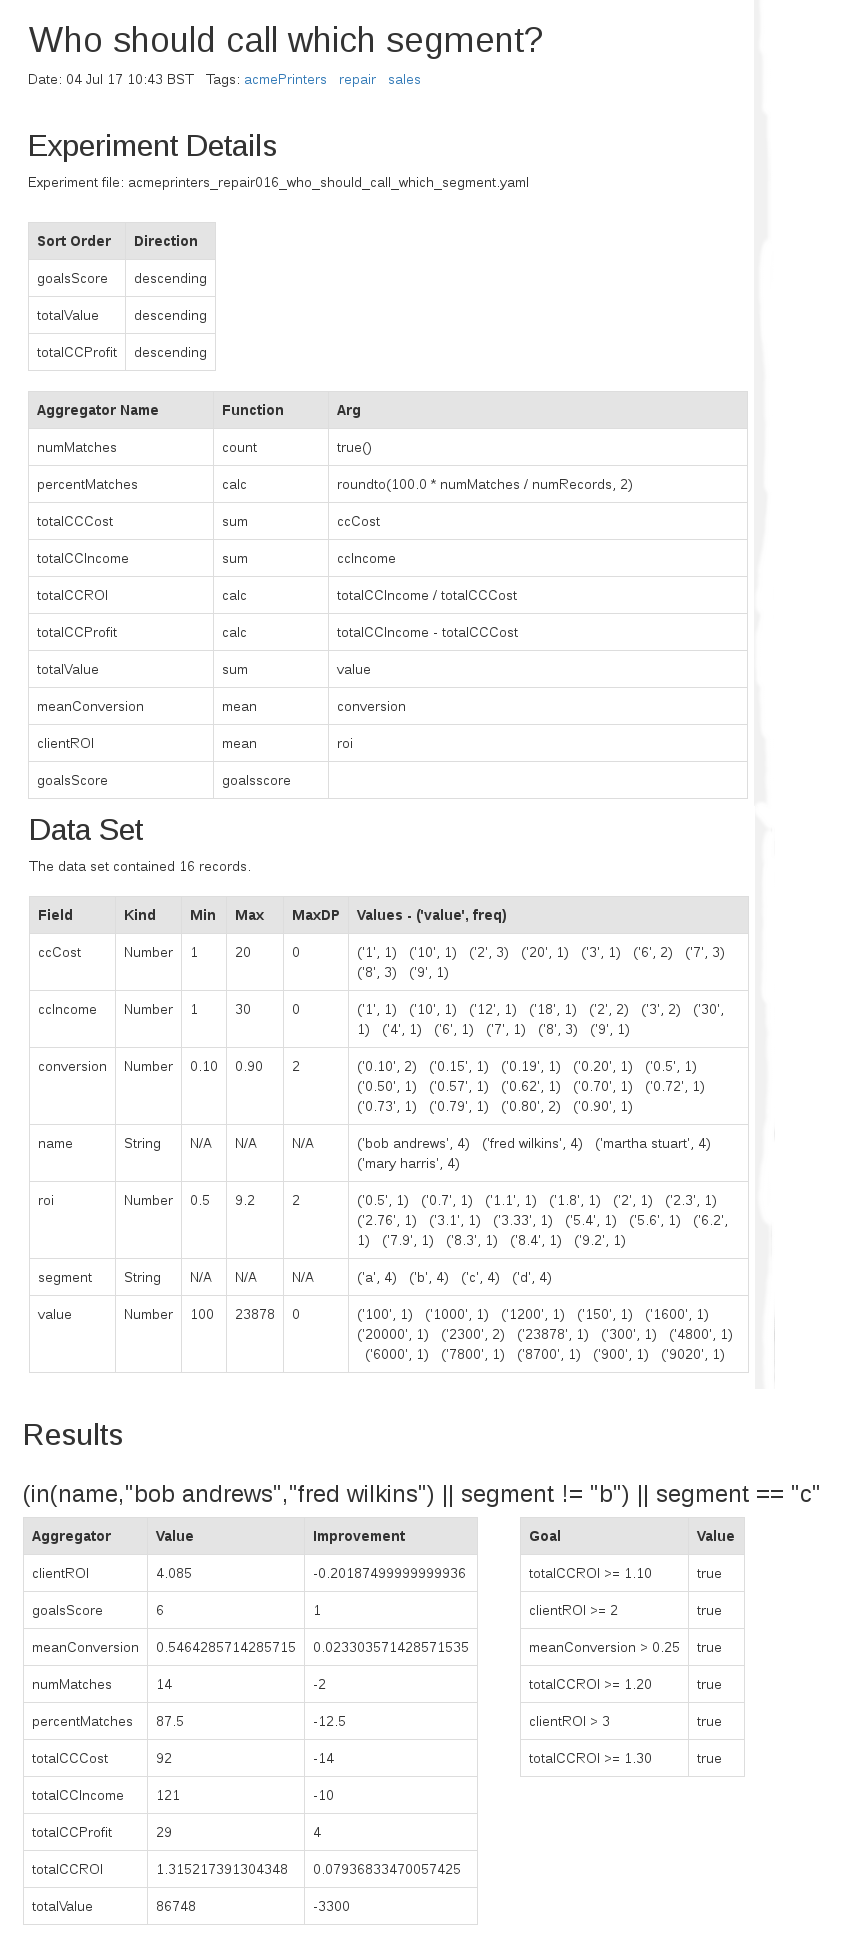
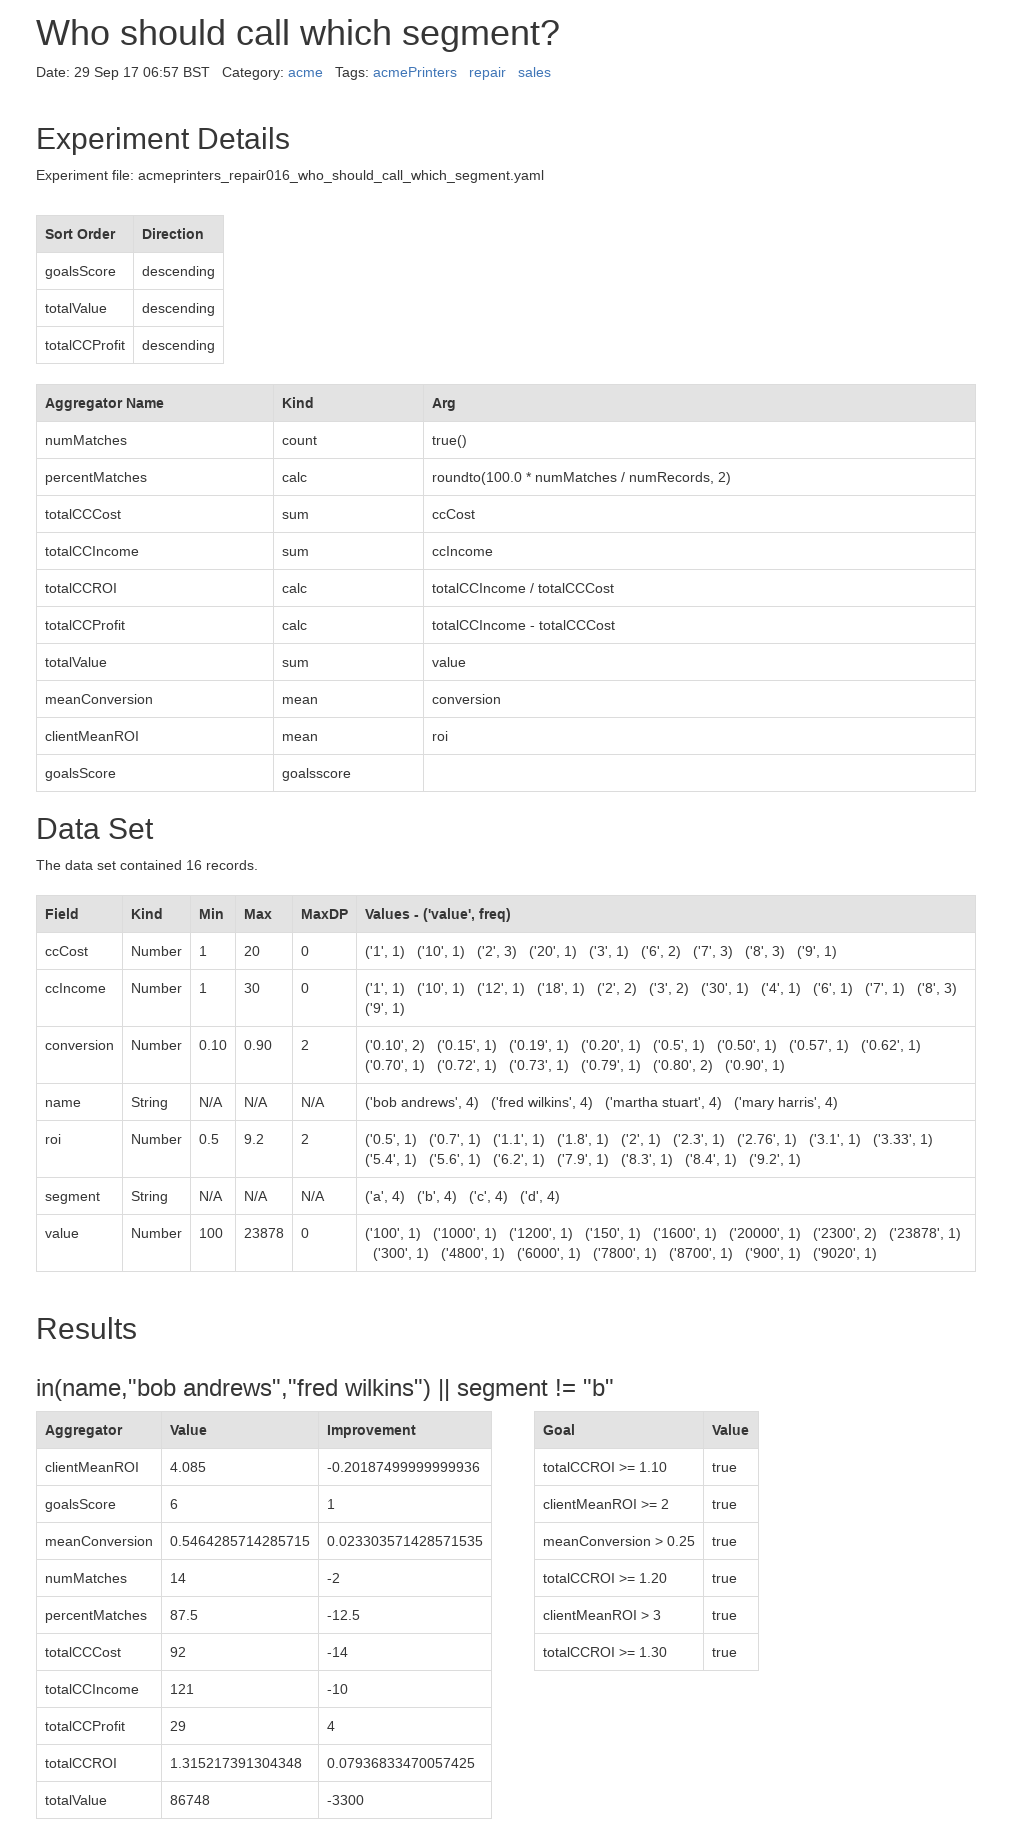
Update to reflect rulehunter commit: 7762d9b

diff --git a/content/docs/examples/call_centre_printer_repairs.md b/content/docs/examples/call_centre_printer_repairs.md
@@ -32,6 +32,7 @@ Once the campaign has been called for a while it would be useful to find who sho
 
 {{< highlight yaml >}}
 title: "Who should call which segment?"
+category: "acme"
 tags:
   - repair
   - sales
@@ -61,29 +62,29 @@ ruleFields:
 aggregators:
   # totalCCCost is the total call centre cost for a rule
   - name: "totalCCCost"
-    function: "sum"
-    arg: "ccCost"
+    kind: "sum"
+    arg:  "ccCost"
   # totalCCIncome is the total call centre income for a rule
   - name: "totalCCIncome"
-    function: "sum"
-    arg: "ccIncome"
+    kind: "sum"
+    arg:  "ccIncome"
   # totalCCROI is the total call centre ROI (Return On Investment) for a rule
   - name: "totalCCROI"
-    function: "calc"
-    arg: "totalCCIncome / totalCCCost"
+    kind: "calc"
+    arg:  "totalCCIncome / totalCCCost"
   - name: "totalCCProfit"
-    function: "calc"
-    arg: "totalCCIncome - totalCCCost"
+    kind: "calc"
+    arg:  "totalCCIncome - totalCCCost"
   # totalValue is the total value of the contracts sold for a rule
   - name: "totalValue"
-    function: "sum"
-    arg: "value"
+    kind: "sum"
+    arg:  "value"
   - name: "meanConversion"
-    function: "mean"
-    arg: "conversion"
+    kind: "mean"
+    arg:  "conversion"
   # clientMeanROI is the average client ROI for a rule
   - name: "clientMeanROI"
-    function: "mean"
+    kind: "mean"
     arg: "roi"
 # Below you see the goals specified by the call centre and the client
 goals:
@@ -96,12 +97,12 @@ goals:
 sortOrder:
   # goalsScore is used to sort first as this is the most important
   # factor to be used when assessing the rules
-  - aggregatorName: "goalsScore"
-    direction: "descending"
-  - aggregatorName: "totalValue"
-    direction: "descending"
-  - aggregatorName: "totalCCProfit"
-    direction: "descending"
+  - aggregator: "goalsScore"
+    direction:  "descending"
+  - aggregator: "totalValue"
+    direction:  "descending"
+  - aggregator: "totalCCProfit"
+    direction:  "descending"
 # The experiment will be run every 40 minutes
 when: "!hasRun || sinceLastRunMinutes > 40"
 {{< /highlight >}}
@@ -113,14 +114,13 @@ After running this experiment a report is generated which starts as follows:
 
 The top of the report shows the best rule:
 {{< highlight go >}}
-(in(name,"bob andrews","fred wilkins") || segment != "b") || segment == "c"
+in(name,"bob andrews","fred wilkins") || segment != "b"
 {{< /highlight >}}
 
 This rule is quite complicated at first sight.  To unpack it we could say that when picking who calls what segment that the following holds true:
 
   * Bob Andrews and Fred Wilkins can call any segment
-  * Everyone else must not call segment 'b'
-  * Everyone can call segment 'c'
+  * Everyone else can call any segment except 'b'
 
 Below the rule on the right you can see that it passes all the goals specified.  Below on the left you can see the results that this rule gives for the various aggregators specified.  The improvement column is the difference between the result for this rule and the `true()` rule.  The `true()` rule represents all the records being used for the aggregators.  This rule will always be at the end of the report as can be seen below:
 
@@ -129,11 +129,11 @@ Below the rule on the right you can see that it passes all the goals specified. 
 ### Assessment of Report
 The report shows that the best rule as defined by the experiment is:
 {{< highlight go >}}
-(in(name,"bob andrews","fred wilkins") || segment != "b") || segment == "c"
+in(name,"bob andrews","fred wilkins") || segment != "b"
 {{< /highlight >}}
 
 For the client it achieves an ROI of 4.085, over twice their goal and a conversion of 55%, again over twice their goal.  For the call centre it achieves an ROI of 1.32 which is over target.  Using this rule both parties have their needs met and the client gets a healthy total value of contracts at: £86,748, only £3,300 less than the `true()` rule.
 
 If only the `true()` rule was used i.e. the data wasn't filtered, then the call centre would have still met the clients goals, but would have missed out on its stretch goal of having an ROI of 1.30.
 
-With the use of the best rule, the client gets a fantastic result and the call centre makes a healthy profit as well.
+With the use of the best rule, the client gets a fantastic result and the call centre makes a healthy profit as well.  A healthy profit is particularly important for this company because they know that sometimes calling is unpredictable and they will often make a loss.  They need to minimize the losses where they can and make the most of profits when they are able.

diff --git a/content/docs/usage.md b/content/docs/usage.md
@@ -7,22 +7,32 @@ toc: false
 bref: "Rulehunter has a variety of ways that it can been used depending on a user's needs"
 ---
 
-Rulehunter is run using the `rulehunter` executable created by `go install`.  You can use this command in a number of ways:
-
-<br />
-To processes the experiments in the `experimentsDir` directory specified in `config.yaml` located in the current directory:
+To processes the experiments in the `experimentsDir` directory specified in `config.yaml`, which is located in the current directory:
 {{< highlight shell >}}
 rulehunter
 {{< /highlight >}}
 
-<br />
-To run Rulehunter as a server continually checking and processing experiments:
+To specify a config file:
 {{< highlight shell >}}
-rulehunter -serve
+rulehunter --config=/usr/local/rulehunter/config.yaml
 {{< /highlight >}}
 
-<br />
-To install Rulehunter as a service (which then needs starting separately) with `config.yaml` located in `/usr/local/rulehunter`:
+To run Rulehunter as a server continually checking and processing experiments:
 {{< highlight shell >}}
-rulehunter -install -configdir=/usr/local/rulehunter
+rulehunter serve
+{{< /highlight >}}
+
+To install Rulehunter as an operating service (which then needs starting separately) using `/usr/local/rulehunter/config.yaml`:
+{{< highlight shell >}}
+rulehunter service install --config=/usr/local/rulehunter/config.yaml
+{{< /highlight >}}
+
+To uninstall Rulehunter as an operating service:
+{{< highlight shell >}}
+rulehunter service uninstall
+{{< /highlight >}}
+
+To get help:
+{{< highlight shell >}}
+rulehunter help
 {{< /highlight >}}

diff --git a/content/docs/experiments.md b/content/docs/experiments.md
@@ -16,6 +16,9 @@ An _experiment_ is what describes the dataset that you want to process and what 
 # The title of the report
 title: "What would indicate good flow?"
 
+# The category that this report is in
+category: "acme"
+
 # The tags associated with the report
 tags:
   - test
@@ -31,7 +34,7 @@ csv:
   # Whether the CSV file contains a header line
   hasHeader: true
   # What separator the CSV file is using
-  separator:  ","
+  separator: ","
 
 # The names of the fields to be used by Rulehunter
 fields:
@@ -55,10 +58,11 @@ ruleComplexity:
 aggregators:
     # The name of the aggregator
   - name: "goodFlowMCC"
-    # The function to use (calc, count, mcc, mean, precision, recall, sum)
-    function: "mcc"
+    # The kind of aggregator to use
+    # (calc, count, mcc, mean, precision, recall, sum)
+    kind: "mcc"
     # The argument to pass to the aggregator function
-    arg: "flow > 60"
+    arg:  "flow > 60"
 
 # What goals to try to achieve
 goals:
@@ -66,13 +70,18 @@ goals:
 
 # The order to sort the rules in
 sortOrder:
-  - aggregatorName: "goodFlowMCC"
-    direction: "descending"
-  - aggregatorName: "numMatches"
-    direction: "descending"
+  - aggregator: "goodFlowMCC"
+    direction:  "descending"
+  - aggregator: "numMatches"
+    direction:  "descending"
 
 # When to run the experiment (default: !hasRun)
 when: "!hasRunToday || sinceLastRunHours > 2"
+
+# User defined rules to try
+rules:
+  - "height > 10"
+  - "height > 10 && height < 20"
 {{< /highlight >}}
 
 ### SQL

diff --git a/content/docs/overview.md b/content/docs/overview.md
@@ -16,6 +16,6 @@ Overview of Rulehunter
 ----------------------
 Rulehunter works through a series of experiments located in the `experimentsDir` specified in `config.yaml`.  It will process each experiment and output a report in html.  The html report is part of a website created in the `wwwDir` specified in `config.yaml`.
 
-<img src="/img/reports_list.png" class="outline" alt="screenshot of reports list">
+<img src="/img/front.png" class="outline" alt="screenshot of front page">
 
 To give users of the reports access to the website created you must serve it using the `wwwDir` as the root.  Then users will be able to navigate to a list of reports that have been generated.  These report titles can then be clicked on to read them.

diff --git a/content/docs/configuration.md b/content/docs/configuration.md
@@ -29,9 +29,6 @@ sourceUrl: "https://example.com/somecode/rulehunter"
 # (default: /)
 baseUrl: "http://intranet/rulehunter/"
 
-# The user to use when running as a service.
-user: rhuser
-
 # The maximum number of rules in a report.
 # (default: 100)
 maxNumReportRules: 50
